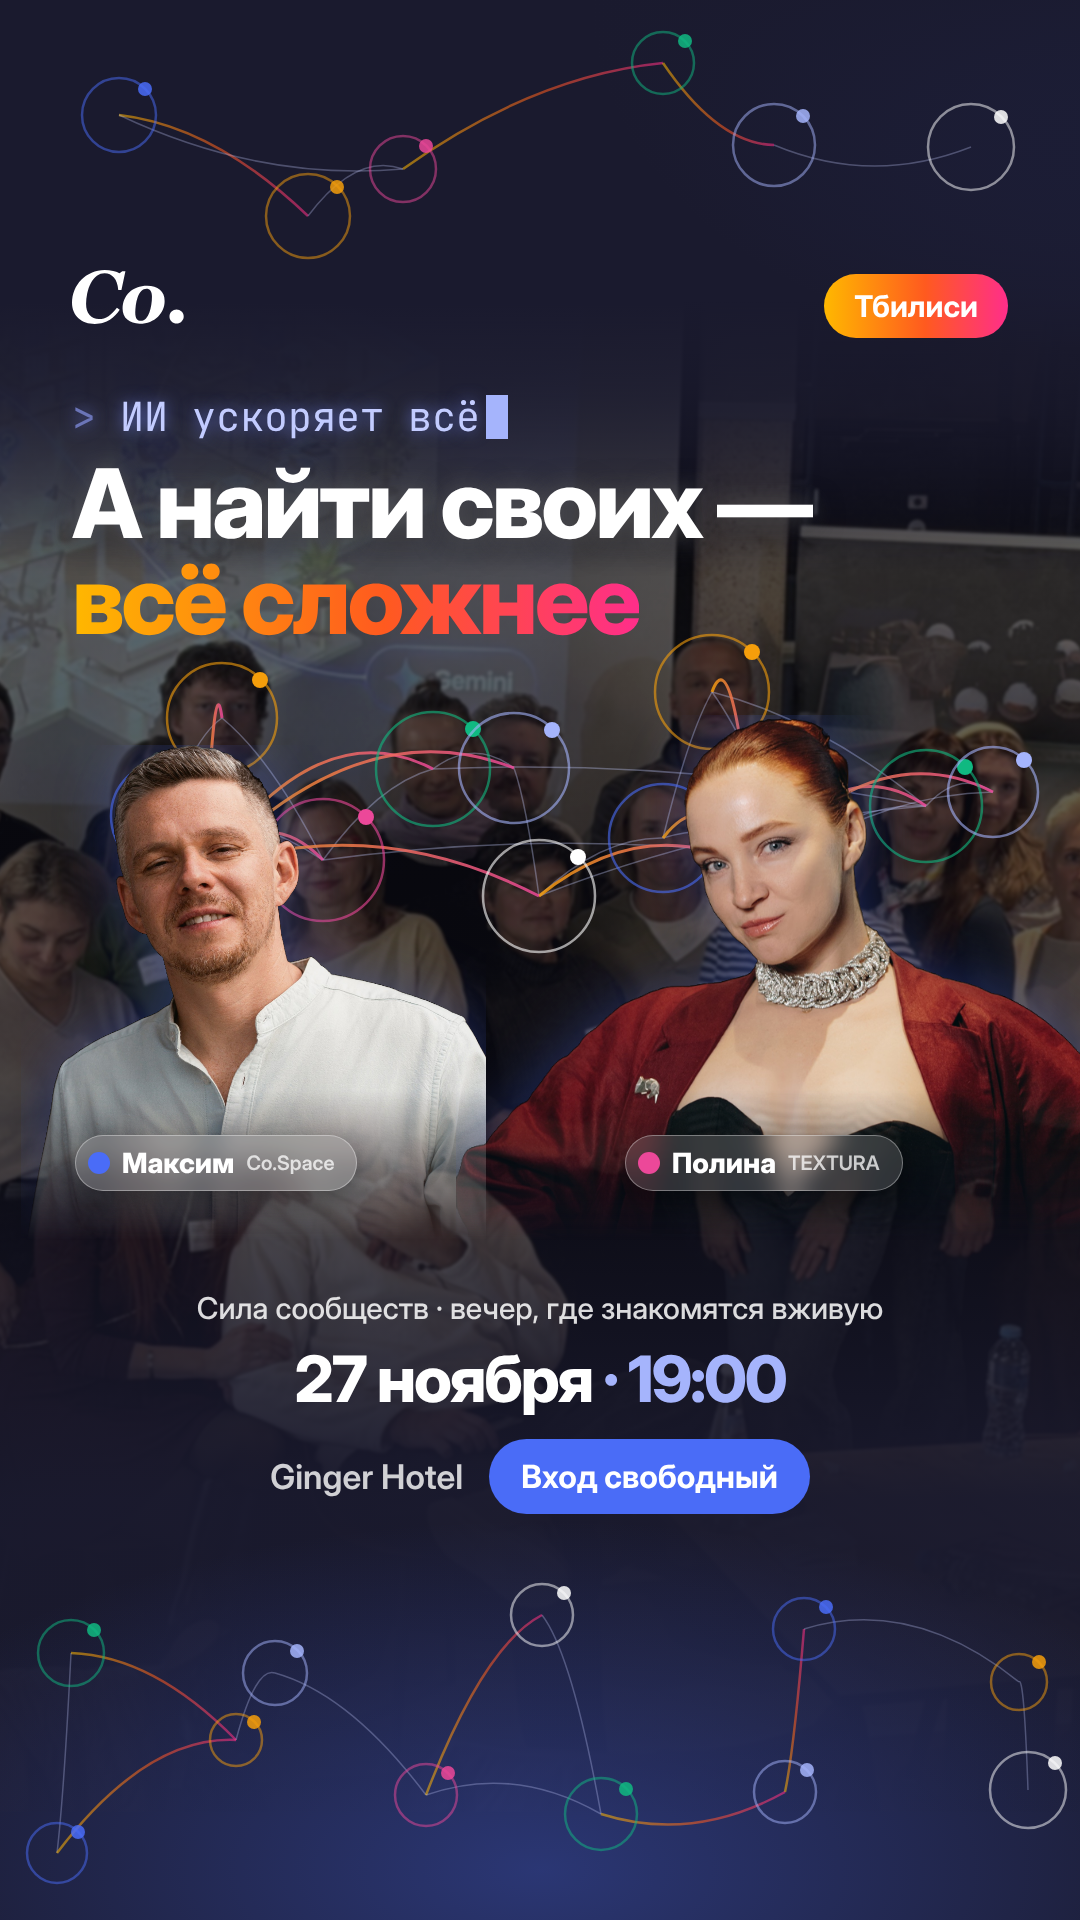
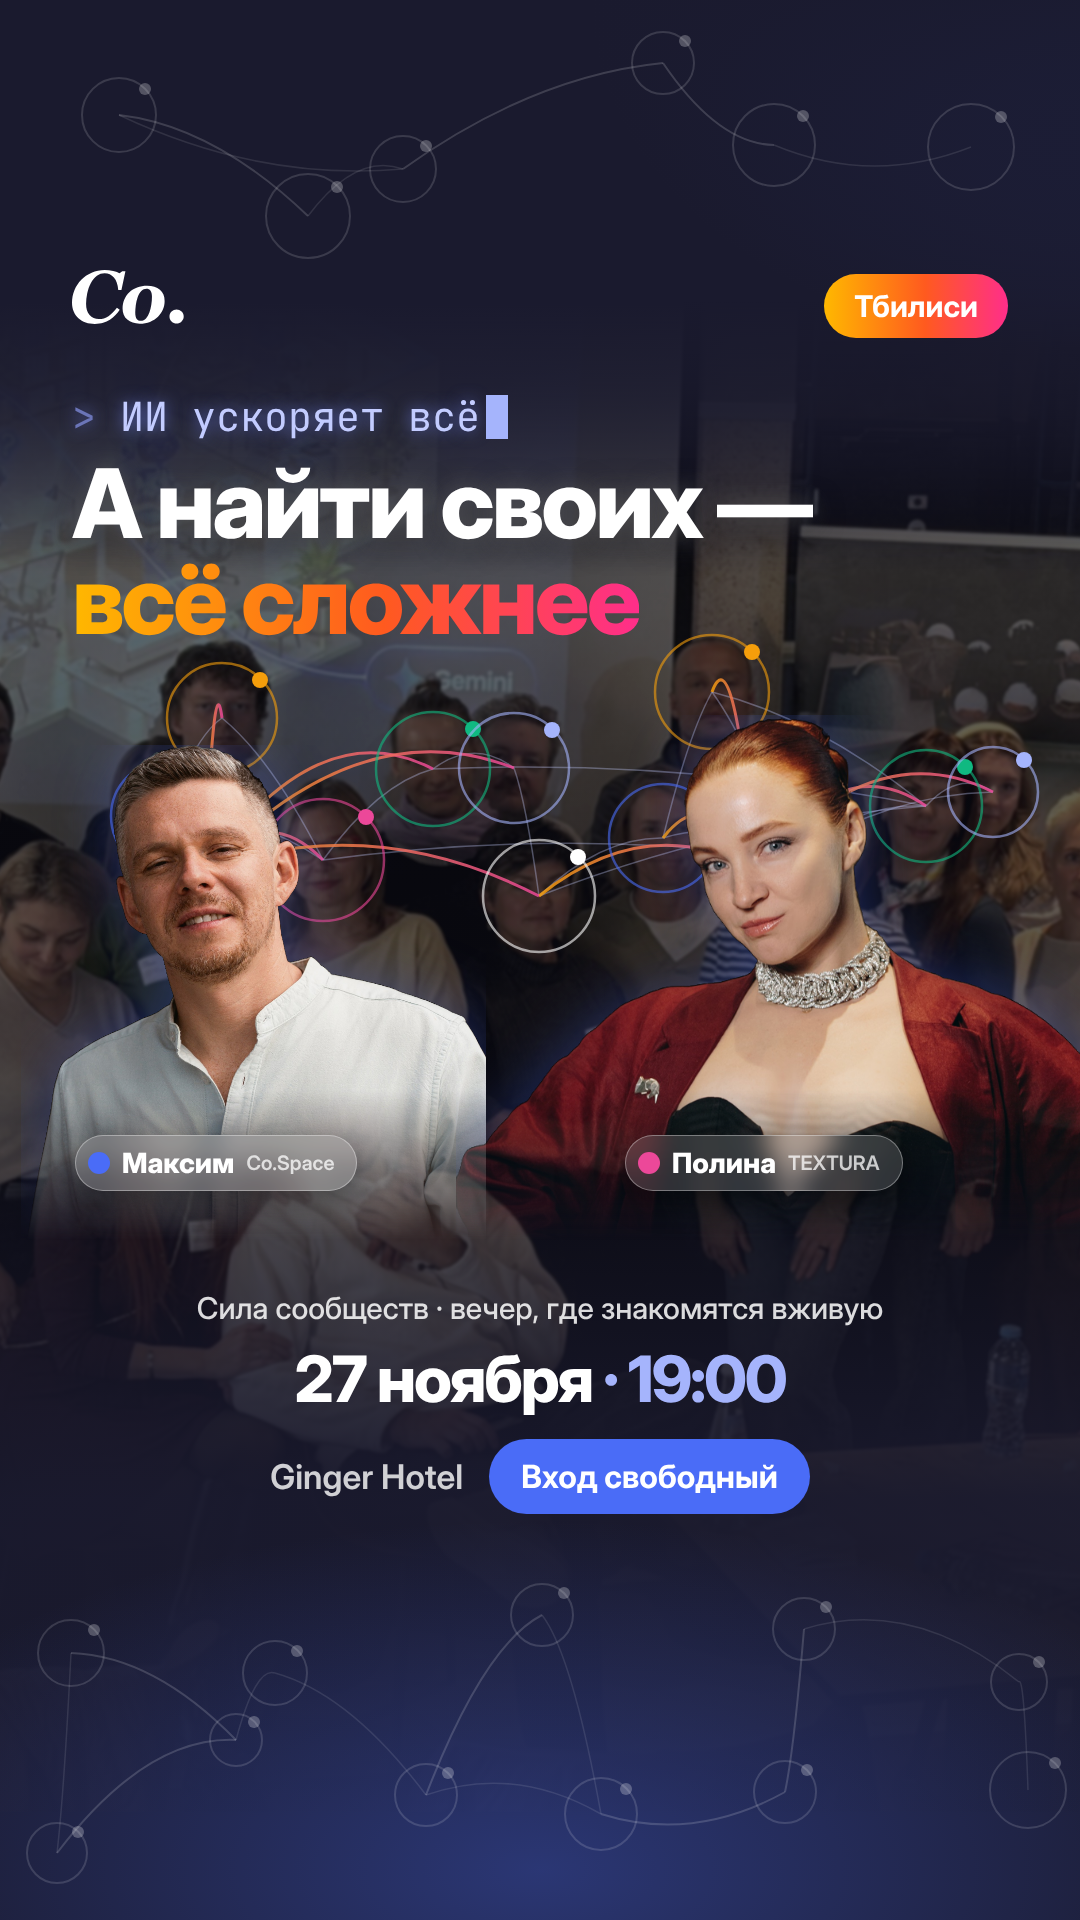
Сторис: связи сверху и снизу белые, еле видные

diff --git a/creatives/src/poster/poster3-9x16.html b/creatives/src/poster/poster3-9x16.html
@@ -30,7 +30,7 @@ h1 em{font-style:normal;text-shadow:none;background:linear-gradient(90deg,#FFB80
 .place{font-size:34px;color:rgba(255,255,255,.8);font-weight:600}
 .cta{background:#4A6CF7;border-radius:44px;padding:18px 32px;font-size:32px;font-weight:700}
 </style></head><body><img class="bg" src="group.src.jpg"><div class="shade"></div>
-<div class="glow"></div><svg class="net" width="1080" height="1920" viewBox="0 0 1080 1920"><defs><linearGradient id="dg" x1="0" x2="1"><stop offset="0" stop-color="#FFB800"/><stop offset=".55" stop-color="#FF5A1F"/><stop offset="1" stop-color="#FF2E8A"/></linearGradient></defs><path d="M119,115 Q214,126 308,216" stroke="url(#dg)" stroke-width="2.5" fill="none" opacity="0.55"/><path d="M119,115 Q261,182 403,169" stroke="#C7CEFF" stroke-width="1.5" fill="none" opacity="0.3"/><path d="M308,216 Q356,152 403,169" stroke="#C7CEFF" stroke-width="1.5" fill="none" opacity="0.3"/><path d="M403,169 Q533,76 663,63" stroke="url(#dg)" stroke-width="2.5" fill="none" opacity="0.55"/><path d="M663,63 Q718,144 774,145" stroke="url(#dg)" stroke-width="2.5" fill="none" opacity="0.55"/><path d="M774,145 Q872,186 971,147" stroke="#C7CEFF" stroke-width="1.5" fill="none" opacity="0.3"/><path d="M71,1653 Q154,1656 236,1740" stroke="url(#dg)" stroke-width="2.5" fill="none" opacity="0.55"/><path d="M71,1653 Q64,1793 57,1853" stroke="#C7CEFF" stroke-width="1.5" fill="none" opacity="0.3"/><path d="M275,1673 Q256,1666 236,1740" stroke="#C7CEFF" stroke-width="1.5" fill="none" opacity="0.3"/><path d="M275,1673 Q350,1694 426,1795" stroke="#C7CEFF" stroke-width="1.5" fill="none" opacity="0.3"/><path d="M542,1615 Q572,1654 601,1814" stroke="#C7CEFF" stroke-width="1.5" fill="none" opacity="0.3"/><path d="M542,1615 Q484,1645 426,1795" stroke="url(#dg)" stroke-width="2.5" fill="none" opacity="0.55"/><path d="M804,1629 Q794,1750 785,1792" stroke="url(#dg)" stroke-width="2.5" fill="none" opacity="0.55"/><path d="M804,1629 Q912,1596 1019,1682" stroke="#C7CEFF" stroke-width="1.5" fill="none" opacity="0.3"/><path d="M1019,1682 Q1024,1676 1028,1790" stroke="#C7CEFF" stroke-width="1.5" fill="none" opacity="0.3"/><path d="M57,1853 Q146,1736 236,1740" stroke="url(#dg)" stroke-width="2.5" fill="none" opacity="0.55"/><path d="M426,1795 Q514,1764 601,1814" stroke="#C7CEFF" stroke-width="1.5" fill="none" opacity="0.3"/><path d="M601,1814 Q693,1843 785,1792" stroke="url(#dg)" stroke-width="2.5" fill="none" opacity="0.55"/><circle cx="119" cy="115" r="37" fill="none" stroke="#4A6CF7" stroke-width="2.5" opacity=".5"/><circle cx="145" cy="89" r="7" fill="#4A6CF7" opacity=".85"/><circle cx="308" cy="216" r="42" fill="none" stroke="#F59E0B" stroke-width="2.5" opacity=".5"/><circle cx="337" cy="187" r="7" fill="#F59E0B" opacity=".85"/><circle cx="403" cy="169" r="33" fill="none" stroke="#EC4899" stroke-width="2.5" opacity=".5"/><circle cx="426" cy="146" r="7" fill="#EC4899" opacity=".85"/><circle cx="663" cy="63" r="31" fill="none" stroke="#10B981" stroke-width="2.5" opacity=".5"/><circle cx="685" cy="41" r="7" fill="#10B981" opacity=".85"/><circle cx="774" cy="145" r="41" fill="none" stroke="#A5B4FC" stroke-width="2.5" opacity=".5"/><circle cx="803" cy="116" r="7" fill="#A5B4FC" opacity=".85"/><circle cx="971" cy="147" r="43" fill="none" stroke="#FFFFFF" stroke-width="2.5" opacity=".5"/><circle cx="1001" cy="117" r="7" fill="#FFFFFF" opacity=".85"/><circle cx="71" cy="1653" r="33" fill="none" stroke="#10B981" stroke-width="2.5" opacity=".5"/><circle cx="94" cy="1630" r="7" fill="#10B981" opacity=".85"/><circle cx="275" cy="1673" r="32" fill="none" stroke="#A5B4FC" stroke-width="2.5" opacity=".5"/><circle cx="297" cy="1651" r="7" fill="#A5B4FC" opacity=".85"/><circle cx="542" cy="1615" r="31" fill="none" stroke="#FFFFFF" stroke-width="2.5" opacity=".5"/><circle cx="564" cy="1593" r="7" fill="#FFFFFF" opacity=".85"/><circle cx="804" cy="1629" r="31" fill="none" stroke="#4A6CF7" stroke-width="2.5" opacity=".5"/><circle cx="826" cy="1607" r="7" fill="#4A6CF7" opacity=".85"/><circle cx="1019" cy="1682" r="28" fill="none" stroke="#F59E0B" stroke-width="2.5" opacity=".5"/><circle cx="1039" cy="1662" r="7" fill="#F59E0B" opacity=".85"/><circle cx="57" cy="1853" r="30" fill="none" stroke="#4A6CF7" stroke-width="2.5" opacity=".5"/><circle cx="78" cy="1832" r="7" fill="#4A6CF7" opacity=".85"/><circle cx="236" cy="1740" r="26" fill="none" stroke="#F59E0B" stroke-width="2.5" opacity=".5"/><circle cx="254" cy="1722" r="7" fill="#F59E0B" opacity=".85"/><circle cx="426" cy="1795" r="31" fill="none" stroke="#EC4899" stroke-width="2.5" opacity=".5"/><circle cx="448" cy="1773" r="7" fill="#EC4899" opacity=".85"/><circle cx="601" cy="1814" r="36" fill="none" stroke="#10B981" stroke-width="2.5" opacity=".5"/><circle cx="626" cy="1789" r="7" fill="#10B981" opacity=".85"/><circle cx="785" cy="1792" r="31" fill="none" stroke="#A5B4FC" stroke-width="2.5" opacity=".5"/><circle cx="807" cy="1770" r="7" fill="#A5B4FC" opacity=".85"/><circle cx="1028" cy="1790" r="38" fill="none" stroke="#FFFFFF" stroke-width="2.5" opacity=".5"/><circle cx="1055" cy="1763" r="7" fill="#FFFFFF" opacity=".85"/></svg>
+<div class="glow"></div><svg class="net" width="1080" height="1920" viewBox="0 0 1080 1920"><defs><linearGradient id="dg" x1="0" x2="1"><stop offset="0" stop-color="#FFB800"/><stop offset=".55" stop-color="#FF5A1F"/><stop offset="1" stop-color="#FF2E8A"/></linearGradient></defs><path d="M119,115 Q214,126 308,216" stroke="#FFFFFF" stroke-width="2" fill="none" opacity="0.16"/><path d="M119,115 Q261,182 403,169" stroke="#FFFFFF" stroke-width="1.5" fill="none" opacity="0.1"/><path d="M308,216 Q356,152 403,169" stroke="#FFFFFF" stroke-width="1.5" fill="none" opacity="0.1"/><path d="M403,169 Q533,76 663,63" stroke="#FFFFFF" stroke-width="2" fill="none" opacity="0.16"/><path d="M663,63 Q718,144 774,145" stroke="#FFFFFF" stroke-width="2" fill="none" opacity="0.16"/><path d="M774,145 Q872,186 971,147" stroke="#FFFFFF" stroke-width="1.5" fill="none" opacity="0.1"/><path d="M71,1653 Q154,1656 236,1740" stroke="#FFFFFF" stroke-width="2" fill="none" opacity="0.16"/><path d="M71,1653 Q64,1793 57,1853" stroke="#FFFFFF" stroke-width="1.5" fill="none" opacity="0.1"/><path d="M275,1673 Q256,1666 236,1740" stroke="#FFFFFF" stroke-width="1.5" fill="none" opacity="0.1"/><path d="M275,1673 Q350,1694 426,1795" stroke="#FFFFFF" stroke-width="1.5" fill="none" opacity="0.1"/><path d="M542,1615 Q572,1654 601,1814" stroke="#FFFFFF" stroke-width="1.5" fill="none" opacity="0.1"/><path d="M542,1615 Q484,1645 426,1795" stroke="#FFFFFF" stroke-width="2" fill="none" opacity="0.16"/><path d="M804,1629 Q794,1750 785,1792" stroke="#FFFFFF" stroke-width="2" fill="none" opacity="0.16"/><path d="M804,1629 Q912,1596 1019,1682" stroke="#FFFFFF" stroke-width="1.5" fill="none" opacity="0.1"/><path d="M1019,1682 Q1024,1676 1028,1790" stroke="#FFFFFF" stroke-width="1.5" fill="none" opacity="0.1"/><path d="M57,1853 Q146,1736 236,1740" stroke="#FFFFFF" stroke-width="2" fill="none" opacity="0.16"/><path d="M426,1795 Q514,1764 601,1814" stroke="#FFFFFF" stroke-width="1.5" fill="none" opacity="0.1"/><path d="M601,1814 Q693,1843 785,1792" stroke="#FFFFFF" stroke-width="2" fill="none" opacity="0.16"/><circle cx="119" cy="115" r="37" fill="none" stroke="#FFFFFF" stroke-width="2" opacity=".14"/><circle cx="145" cy="89" r="6" fill="#FFFFFF" opacity=".25"/><circle cx="308" cy="216" r="42" fill="none" stroke="#FFFFFF" stroke-width="2" opacity=".14"/><circle cx="337" cy="187" r="6" fill="#FFFFFF" opacity=".25"/><circle cx="403" cy="169" r="33" fill="none" stroke="#FFFFFF" stroke-width="2" opacity=".14"/><circle cx="426" cy="146" r="6" fill="#FFFFFF" opacity=".25"/><circle cx="663" cy="63" r="31" fill="none" stroke="#FFFFFF" stroke-width="2" opacity=".14"/><circle cx="685" cy="41" r="6" fill="#FFFFFF" opacity=".25"/><circle cx="774" cy="145" r="41" fill="none" stroke="#FFFFFF" stroke-width="2" opacity=".14"/><circle cx="803" cy="116" r="6" fill="#FFFFFF" opacity=".25"/><circle cx="971" cy="147" r="43" fill="none" stroke="#FFFFFF" stroke-width="2" opacity=".14"/><circle cx="1001" cy="117" r="6" fill="#FFFFFF" opacity=".25"/><circle cx="71" cy="1653" r="33" fill="none" stroke="#FFFFFF" stroke-width="2" opacity=".14"/><circle cx="94" cy="1630" r="6" fill="#FFFFFF" opacity=".25"/><circle cx="275" cy="1673" r="32" fill="none" stroke="#FFFFFF" stroke-width="2" opacity=".14"/><circle cx="297" cy="1651" r="6" fill="#FFFFFF" opacity=".25"/><circle cx="542" cy="1615" r="31" fill="none" stroke="#FFFFFF" stroke-width="2" opacity=".14"/><circle cx="564" cy="1593" r="6" fill="#FFFFFF" opacity=".25"/><circle cx="804" cy="1629" r="31" fill="none" stroke="#FFFFFF" stroke-width="2" opacity=".14"/><circle cx="826" cy="1607" r="6" fill="#FFFFFF" opacity=".25"/><circle cx="1019" cy="1682" r="28" fill="none" stroke="#FFFFFF" stroke-width="2" opacity=".14"/><circle cx="1039" cy="1662" r="6" fill="#FFFFFF" opacity=".25"/><circle cx="57" cy="1853" r="30" fill="none" stroke="#FFFFFF" stroke-width="2" opacity=".14"/><circle cx="78" cy="1832" r="6" fill="#FFFFFF" opacity=".25"/><circle cx="236" cy="1740" r="26" fill="none" stroke="#FFFFFF" stroke-width="2" opacity=".14"/><circle cx="254" cy="1722" r="6" fill="#FFFFFF" opacity=".25"/><circle cx="426" cy="1795" r="31" fill="none" stroke="#FFFFFF" stroke-width="2" opacity=".14"/><circle cx="448" cy="1773" r="6" fill="#FFFFFF" opacity=".25"/><circle cx="601" cy="1814" r="36" fill="none" stroke="#FFFFFF" stroke-width="2" opacity=".14"/><circle cx="626" cy="1789" r="6" fill="#FFFFFF" opacity=".25"/><circle cx="785" cy="1792" r="31" fill="none" stroke="#FFFFFF" stroke-width="2" opacity=".14"/><circle cx="807" cy="1770" r="6" fill="#FFFFFF" opacity=".25"/><circle cx="1028" cy="1790" r="38" fill="none" stroke="#FFFFFF" stroke-width="2" opacity=".14"/><circle cx="1055" cy="1763" r="6" fill="#FFFFFF" opacity=".25"/></svg>
 <svg class="net" width="1080" height="1920" viewBox="0 0 1080 1920"><defs><linearGradient id="gl" x1="0" x2="1"><stop offset="0" stop-color="#F59E0B"/><stop offset="1" stop-color="#EC4899"/></linearGradient></defs><path d="M166,816 Q194,737 222,718" stroke="#C7CEFF" stroke-width="1.5" fill="none" opacity=".35"/><path d="M926,806 Q960,769 993,792" stroke="#C7CEFF" stroke-width="1.5" fill="none" opacity=".35"/><path d="M222,718 Q272,759 323,860" stroke="#C7CEFF" stroke-width="1.5" fill="none" opacity=".35"/><path d="M433,769 Q474,738 514,768" stroke="#C7CEFF" stroke-width="1.5" fill="none" opacity=".35"/><path d="M663,838 Q726,818 788,857" stroke="#C7CEFF" stroke-width="1.5" fill="none" opacity=".35"/><path d="M788,857 Q890,794 993,792" stroke="#C7CEFF" stroke-width="1.5" fill="none" opacity=".35"/><path d="M323,860 Q378,784 433,769" stroke="#C7CEFF" stroke-width="1.5" fill="none" opacity=".35"/><path d="M663,838 Q688,735 712,692" stroke="#C7CEFF" stroke-width="1.5" fill="none" opacity=".35"/><path d="M166,816 Q244,808 323,860" stroke="#C7CEFF" stroke-width="1.5" fill="none" opacity=".35"/><path d="M514,768 Q526,802 539,896" stroke="#C7CEFF" stroke-width="1.5" fill="none" opacity=".35"/><path d="M788,857 Q857,802 926,806" stroke="#C7CEFF" stroke-width="1.5" fill="none" opacity=".35"/><path d="M539,896 Q601,837 663,838" stroke="#C7CEFF" stroke-width="1.5" fill="none" opacity=".35"/><path d="M433,769 Q680,758 926,806" stroke="#C7CEFF" stroke-width="1.5" fill="none" opacity=".35"/><path d="M712,692 Q819,719 926,806" stroke="#C7CEFF" stroke-width="1.5" fill="none" opacity=".35"/><path d="M539,896 Q732,821 926,806" stroke="#C7CEFF" stroke-width="1.5" fill="none" opacity=".35"/><path d="M712,692 Q750,744 788,857" stroke="#C7CEFF" stroke-width="1.5" fill="none" opacity=".35"/><path d="M323,860 Q556,828 788,857" stroke="#C7CEFF" stroke-width="1.5" fill="none" opacity=".35"/><path d="M755,870 Q772,797 788,857" stroke="url(#gl)" stroke-width="3" fill="none" opacity=".85"/><path d="M755,870 Q709,778 663,838" stroke="url(#gl)" stroke-width="3" fill="none" opacity=".85"/><path d="M755,870 Q840,746 926,806" stroke="url(#gl)" stroke-width="3" fill="none" opacity=".85"/><path d="M755,870 Q734,632 712,692" stroke="url(#gl)" stroke-width="3" fill="none" opacity=".85"/><path d="M755,870 Q647,810 539,896" stroke="url(#gl)" stroke-width="3" fill="none" opacity=".85"/><path d="M755,870 Q874,732 993,792" stroke="url(#gl)" stroke-width="3" fill="none" opacity=".85"/><path d="M205,870 Q186,756 166,816" stroke="url(#gl)" stroke-width="3" fill="none" opacity=".85"/><path d="M205,870 Q264,800 323,860" stroke="url(#gl)" stroke-width="3" fill="none" opacity=".85"/><path d="M205,870 Q214,658 222,718" stroke="url(#gl)" stroke-width="3" fill="none" opacity=".85"/><path d="M205,870 Q319,709 433,769" stroke="url(#gl)" stroke-width="3" fill="none" opacity=".85"/><path d="M205,870 Q360,708 514,768" stroke="url(#gl)" stroke-width="3" fill="none" opacity=".85"/><path d="M205,870 Q372,810 539,896" stroke="url(#gl)" stroke-width="3" fill="none" opacity=".85"/><circle cx="166" cy="816" r="55" fill="none" stroke="#4A6CF7" stroke-width="2.5" opacity=".6"/><circle cx="204" cy="778" r="8" fill="#4A6CF7"/><circle cx="222" cy="718" r="55" fill="none" stroke="#F59E0B" stroke-width="2.5" opacity=".6"/><circle cx="260" cy="680" r="8" fill="#F59E0B"/><circle cx="323" cy="860" r="61" fill="none" stroke="#EC4899" stroke-width="2.5" opacity=".6"/><circle cx="366" cy="817" r="8" fill="#EC4899"/><circle cx="433" cy="769" r="57" fill="none" stroke="#10B981" stroke-width="2.5" opacity=".6"/><circle cx="473" cy="729" r="8" fill="#10B981"/><circle cx="514" cy="768" r="55" fill="none" stroke="#A5B4FC" stroke-width="2.5" opacity=".6"/><circle cx="552" cy="730" r="8" fill="#A5B4FC"/><circle cx="539" cy="896" r="56" fill="none" stroke="#FFFFFF" stroke-width="2.5" opacity=".6"/><circle cx="578" cy="857" r="8" fill="#FFFFFF"/><circle cx="663" cy="838" r="54" fill="none" stroke="#4A6CF7" stroke-width="2.5" opacity=".6"/><circle cx="701" cy="800" r="8" fill="#4A6CF7"/><circle cx="712" cy="692" r="57" fill="none" stroke="#F59E0B" stroke-width="2.5" opacity=".6"/><circle cx="752" cy="652" r="8" fill="#F59E0B"/><circle cx="788" cy="857" r="57" fill="none" stroke="#EC4899" stroke-width="2.5" opacity=".6"/><circle cx="828" cy="817" r="8" fill="#EC4899"/><circle cx="926" cy="806" r="56" fill="none" stroke="#10B981" stroke-width="2.5" opacity=".6"/><circle cx="965" cy="767" r="8" fill="#10B981"/><circle cx="993" cy="792" r="45" fill="none" stroke="#A5B4FC" stroke-width="2.5" opacity=".6"/><circle cx="1024" cy="760" r="8" fill="#A5B4FC"/></svg>
 <div class="person" style="left:21px;top:745px;height:546px;-webkit-mask-image:linear-gradient(180deg,#000 63.2%,transparent 90.7%)"><img src="max_cut.png"></div><div class="person" style="left:456px;top:715px;height:910px;-webkit-mask-image:linear-gradient(180deg,#000 41.2%,transparent 57.7%)"><img src="polina_cut.png"></div>
 <div class="name" style="left:625px;top:1135px"><i style="background:#EC4899"></i>Полина <small>TEXTURA</small></div>

diff --git a/creatives/src/poster/build_poster3.py b/creatives/src/poster/build_poster3.py
@@ -115,7 +115,7 @@ def deco_svg(L, zones):
         cols = n
         for k in range(n):
             x = int((k + .5) * (W / cols) + rnd.randint(-50, 50))
-            pts.append((x, rnd.randint(y0, y1), rnd.randint(26, 46), COLORS[(k + zi * 3) % len(COLORS)]))
+            pts.append((x, rnd.randint(y0, y1), rnd.randint(26, 46), "#FFFFFF"))
     # точки сети на фото — чтобы дуги уходили к людям
     s_, ox, oy = L["s"], L["ox"], L["oy"]
     faces = [(x * s_ - ox, y * s_ - oy) for x, y in FACES]
@@ -123,17 +123,17 @@ def deco_svg(L, zones):
     out = []
     def arc(a, b, grad, op, lift=50):
         mx, my = (a[0] + b[0]) / 2, (a[1] + b[1]) / 2 - lift
-        st = 'url(#dg)' if grad else '#C7CEFF'
-        out.append(f'<path d="M{a[0]:.0f},{a[1]:.0f} Q{mx:.0f},{my:.0f} {b[0]:.0f},{b[1]:.0f}" stroke="{st}" stroke-width="{2.5 if grad else 1.5}" fill="none" opacity="{op}"/>')
+        st = '#FFFFFF'
+        out.append(f'<path d="M{a[0]:.0f},{a[1]:.0f} Q{mx:.0f},{my:.0f} {b[0]:.0f},{b[1]:.0f}" stroke="{st}" stroke-width="{2 if grad else 1.5}" fill="none" opacity="{op}"/>')
     for i, p in enumerate(pts):
         d = sorted(range(len(pts)), key=lambda j: (pts[j][0] - p[0]) ** 2 + (pts[j][1] - p[1]) ** 2)
         for n_, j in enumerate(d[1:3]):
             if i < j:
-                arc(p, pts[j], (i + n_) % 3 == 0, .55 if (i + n_) % 3 == 0 else .3, rnd.choice([-40, 40, 60]))
+                arc(p, pts[j], (i + n_) % 3 == 0, .16 if (i + n_) % 3 == 0 else .1, rnd.choice([-40, 40, 60]))
     # длинные дуги от верхней/нижней сети к людям на фото
     for x, y, r, c in pts:
-        out.append(f'<circle cx="{x}" cy="{y}" r="{r}" fill="none" stroke="{c}" stroke-width="2.5" opacity=".5"/>')
-        out.append(f'<circle cx="{x + r * .7:.0f}" cy="{y - r * .7:.0f}" r="7" fill="{c}" opacity=".85"/>')
+        out.append(f'<circle cx="{x}" cy="{y}" r="{r}" fill="none" stroke="{c}" stroke-width="2" opacity=".14"/>')
+        out.append(f'<circle cx="{x + r * .7:.0f}" cy="{y - r * .7:.0f}" r="6" fill="{c}" opacity=".25"/>')
     defs = '<defs><linearGradient id="dg" x1="0" x2="1"><stop offset="0" stop-color="#FFB800"/><stop offset=".55" stop-color="#FF5A1F"/><stop offset="1" stop-color="#FF2E8A"/></linearGradient></defs>'
     return f'<svg class="net" width="{W}" height="{H}" viewBox="0 0 {W} {H}">{defs}{"".join(out)}</svg>'
 
